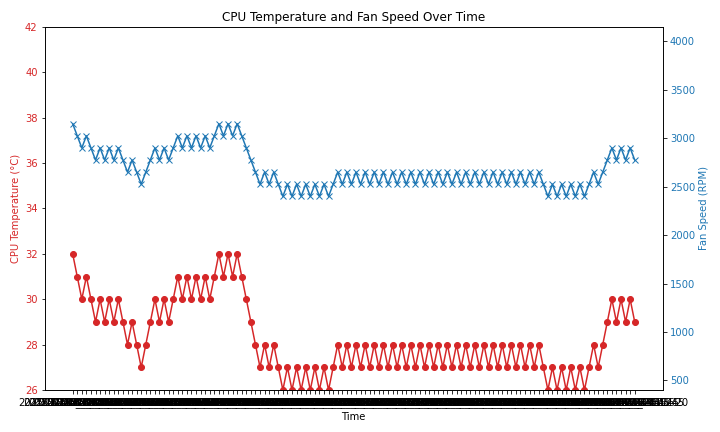
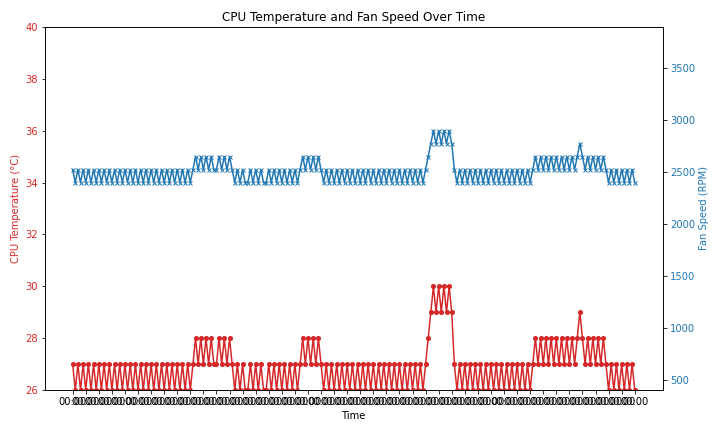
improve data analysis

diff --git a/data_analysis/data_analysis.py b/data_analysis/data_analysis.py
@@ -1,73 +1,116 @@
 import matplotlib.pyplot as plt
+import matplotlib.pyplot as plt
+import matplotlib.dates as mdates
+import gzip
+import os
+import glob
 
-"""
-2025-02-03_22-55-45: CPU Temp: 28.000, Fan Speed: 0x0A
-2025-02-03_23-11-29: CPU Temp: 27.000, Fan Speed: 0x09
-2025-02-03_23-13-45: CPU Temp: 28.000, Fan Speed: 0x0A
-2025-02-03_23-18-35: CPU Temp: 27.000, Fan Speed: 0x09
-2025-02-03_23-20-45: CPU Temp: 28.000, Fan Speed: 0x0A
-"""
 
-hex_to_rpm_mapping = {hex(i): (2400 + ((i - 8) / (32 - 8)) * (5400 - 2400)) for i in range(8, 33)}
+def list_files_from_folder(folder_path, pattern="*"):
+    search_pattern = os.path.join(folder_path, pattern)
+    print(f"Searching for files with pattern: {search_pattern}")  # Debugging
+    files = glob.glob(search_pattern)
+    print(f"Found files: {files}")  # Debugging
+    return files
 
-timestamps = []
-cpu_temperatures = []
-fan_speeds_rpm = []
-
-with open ('data.txt', 'r') as file:
-    data = file.read()
-
+def read_file(file_path):
+    # Check if the file is gzipped by looking at the extension
+    if file_path.endswith('.gz'):
+        # Open the gzipped file
+        with gzip.open(file_path, 'rt') as file:  # 'rt' mode to read as text
+            data = file.read()
+    else:
+        # Open the regular file
+        with open(file_path, 'r') as file:
+            data = file.read()
     data = data.split('\n')
 
-    for entry in data:  
-            timestamp = entry.split(': ')[0]
-            print(f"timestamp: {timestamp}")
-            cpu_temp = float(entry.split(' ')[3][:-1])
-            print(f"cpu_temp: {cpu_temp}")
-            fan_speed_hex = int(entry.split(' ')[6], 16)
-            print(f"fan_speed_hex: {fan_speed_hex}")
-            fan_speed_rpm = hex_to_rpm_mapping[hex(fan_speed_hex)]
-
-            timestamps.append(timestamp)
-            cpu_temperatures.append(cpu_temp)
-            fan_speeds_rpm.append(fan_speed_rpm)
-
-# Plotting the data
-fig, ax1 = plt.subplots(figsize=(10, 6))
-
-offset = 2400  # Add this to fan speed to shift it up
-
-# Plotting the data
-fig, ax1 = plt.subplots(figsize=(10, 6))
-
-# Plot CPU temperature
-ax1.set_xlabel('Time')
-ax1.set_ylabel('CPU Temperature (°C)', color='tab:red')
-ax1.plot(timestamps, cpu_temperatures, color='tab:red', label='CPU Temp', linestyle='-', marker='o')
-ax1.tick_params(axis='y', labelcolor='tab:red')
-
-ax1.set_ylim(min(cpu_temperatures) - 0, max(cpu_temperatures) + 10)
-
-# Create a second y-axis to plot Fan Speed (RPM)
-ax2 = ax1.twinx()
-ax2.set_ylabel('Fan Speed (RPM)', color='tab:blue')
-ax2.plot(timestamps, fan_speeds_rpm, color='tab:blue', label='Fan Speed', linestyle='-', marker='x')
-ax2.tick_params(axis='y', labelcolor='tab:blue')
+    return data
 
 
-ax2.set_ylim(min(fan_speeds_rpm) - 2000, max(fan_speeds_rpm) + 1000)  # Add buffer space
 
-# Rotate x-axis labels for better readability
-plt.xticks(rotation=45)
+def process_data():
+    # example data
+    """
+    2025-02-03_22-55-45: CPU Temp: 28.000, Fan Speed: 0x0A
+    2025-02-03_23-11-29: CPU Temp: 27.000, Fan Speed: 0x09
+    2025-02-03_23-13-45: CPU Temp: 28.000, Fan Speed: 0x0A
+    2025-02-03_23-18-35: CPU Temp: 27.000, Fan Speed: 0x09
+    2025-02-03_23-20-45: CPU Temp: 28.000, Fan Speed: 0x0A
+    """
+    hex_to_rpm_mapping = {hex(i): (2400 + ((i - 8) / (32 - 8)) * (5400 - 2400)) for i in range(8, 33)}
+    timestamps = []
+    cpu_temperatures = []
+    fan_speeds_rpm = []
+    for file in list_files_from_folder('/tmp/', 'fan-control*'):
+         data = read_file(file)
+         for entry in data:  
+            if entry:
+                timestamp = entry.split(': ')[0]
+                print(f"timestamp: {timestamp}")
+                cpu_temp = float(entry.split(' ')[3][:-1])
+                print(f"cpu_temp: {cpu_temp}")
+                fan_speed_hex = int(entry.split(' ')[6], 16)
+                print(f"fan_speed_hex: {fan_speed_hex}")
+                fan_speed_rpm = hex_to_rpm_mapping[hex(fan_speed_hex)]
 
-# Title and layout adjustments
-plt.title('CPU Temperature and Fan Speed Over Time')
-fig.tight_layout()
+                timestamps.append(timestamp)
+                cpu_temperatures.append(cpu_temp)
+                fan_speeds_rpm.append(fan_speed_rpm)
 
-# Show the plot
-plt.show()
+    return timestamps, cpu_temperatures, fan_speeds_rpm
 
-# Save the plot
+def build_graph(timestamps, cpu_temperatures, fan_speeds_rpm):
+    # Plotting the data
+    fig, ax1 = plt.subplots(figsize=(10, 6))
 
-# Save the plot with higher resolution
-fig.savefig('plot.png', dpi=72)
+    offset = 2400  # Add this to fan speed to shift it up
+
+    # Plot CPU temperature
+    ax1.set_xlabel('Time')
+    ax1.set_ylabel('CPU Temperature (°C)', color='tab:red')
+    ax1.plot(timestamps, cpu_temperatures, color='tab:red', label='CPU Temp', linestyle='-', marker='o', markersize=4)  # Smaller marker
+    ax1.tick_params(axis='y', labelcolor='tab:red')
+
+    ax1.set_ylim(min(cpu_temperatures) - 0, max(cpu_temperatures) + 10)
+
+    # Create a second y-axis to plot Fan Speed (RPM)
+    ax2 = ax1.twinx()
+    ax2.set_ylabel('Fan Speed (RPM)', color='tab:blue')
+    ax2.plot(timestamps, fan_speeds_rpm, color='tab:blue', label='Fan Speed', linestyle='-', marker='x', markersize=4)  # Smaller marker
+    ax2.tick_params(axis='y', labelcolor='tab:blue')
+
+    ax2.set_ylim(min(fan_speeds_rpm) - 2000, max(fan_speeds_rpm) + 1000)  # Add buffer space
+
+    # Rotate x-axis labels for better readability
+    ax1.xaxis.set_major_locator(mdates.HourLocator(interval=1))  # Adjust the interval for x-axis ticks (e.g., every hour)
+    ax1.xaxis.set_major_formatter(mdates.DateFormatter('%H:%M'))  # Shorten date format to HH:MM
+    plt.xticks(rotation=45)
+
+    # Reduce label density when there's too much data
+    if len(timestamps) > 50:
+        ax1.set_xticks(timestamps[::5])  # Show only every 5th label if there are many data points
+    else:
+        ax1.set_xticks(timestamps)
+
+    # Title and layout adjustments
+    plt.title('CPU Temperature and Fan Speed Over Time')
+    fig.tight_layout()
+
+    # Show the plot
+    plt.show()
+
+    # Save the plot with higher resolution
+    fig.savefig('plot.png', dpi=72)
+
+def main():
+    # files = list_files_from_folder('/tmp/', 'fan-control*')
+    # print(files)
+    timestamps, cpu_temperatures, fan_speeds_rpm = process_data()
+    build_graph(timestamps, cpu_temperatures, fan_speeds_rpm)
+
+if __name__ == "__main__":
+    main()
+
+# files = list_files_from_folder('/tmp/', 'fan-control*')
+# print(f"files: {files}")
